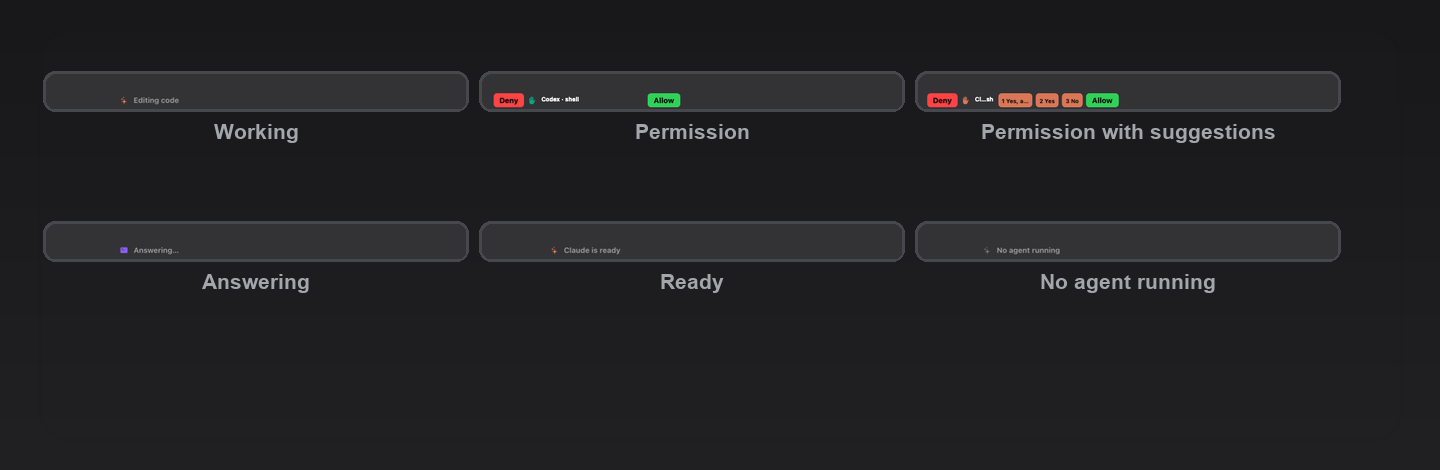
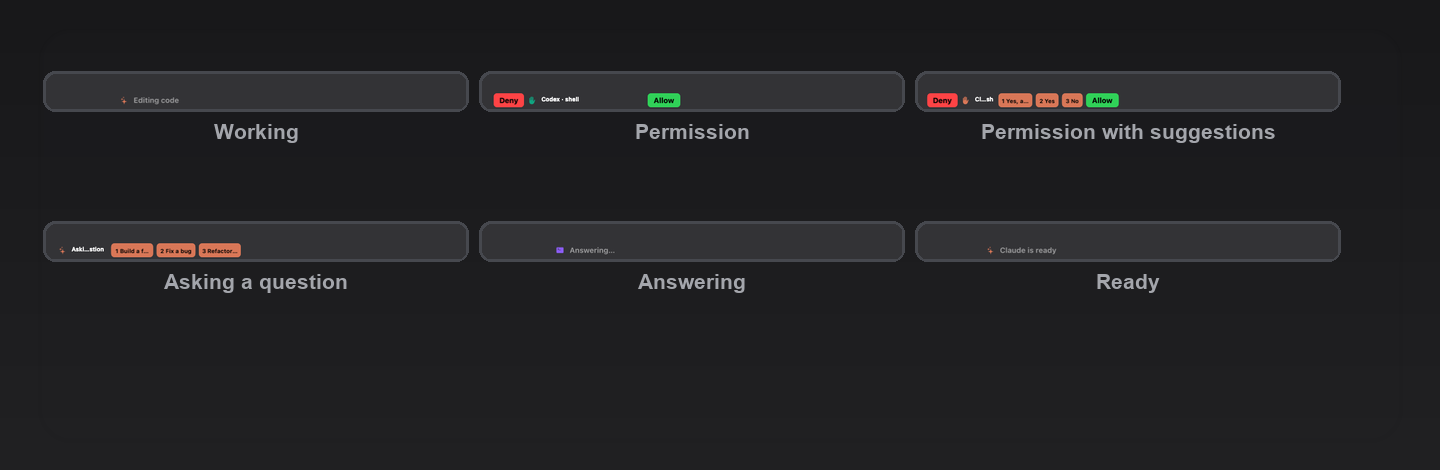
Show AskUserQuestion options as numbered buttons on the Touch Bar
- Hook: extract answer options from AskUserQuestion tool input and send
  them with the needs_input event as "Asking a question"
- Bridge: add options field to AgentSnapshot, pass through record/apply,
  include in state response
- Widget: show a question panel with brand-colored numbered buttons (1/2/3)
  when the agent is in needsInput with options. No Deny/Allow — the user
  answers in the terminal, the buttons are a visual aid
- Render test: add question panel state with self-check
- Regenerate screenshots and hero (replaced No-agent with Asking a question)

diff --git a/widget/Sources/StatusView.swift b/widget/Sources/StatusView.swift
@@ -37,6 +37,8 @@ final class StatusView: NSView {
     private let panelTitle = NSTextField(labelWithString: "")
     private let allowButton = NSButton(title: "Allow", target: nil, action: nil)
     private var suggestionButtons: [NSButton] = []
+    private var questionButtons: [NSButton] = []
+    private var isQuestionPanel = false
 
     // MARK: State
 
@@ -106,7 +108,11 @@ final class StatusView: NSView {
         super.layout()
         panelContainer.frame = bounds
         guard panelContainer.isHidden else {
-            layoutPermissionPanel()
+            if isQuestionPanel {
+                layoutQuestionPanel()
+            } else {
+                layoutPermissionPanel()
+            }
             return
         }
         if presentationWidth <= 1 {
@@ -172,6 +178,35 @@ final class StatusView: NSView {
         allowButton.frame = NSRect(x: x, y: midY, width: allowW, height: 22)
     }
 
+    /// Manual question-panel layout: icon + label + numbered option buttons.
+    /// No Deny/Allow — the user answers in the terminal; the buttons are a
+    /// visual aid so they can see the options on the Touch Bar.
+    private func layoutQuestionPanel() {
+        let gap: CGFloat = 6
+        let iconW: CGFloat = 16
+        let midY = (bounds.height - 22) / 2
+
+        let buttonWidths = questionButtons.map { button -> CGFloat in
+            let attrs: [NSAttributedString.Key: Any] = [.font: NSFont.systemFont(ofSize: 10, weight: .semibold)]
+            let textWidth = (button.title as NSString).size(withAttributes: attrs).width
+            return min(max(textWidth + 12, 26), 72)
+        }
+        let buttonTotal = buttonWidths.reduce(0, +)
+        let itemCount = CGFloat(2 + questionButtons.count)
+        let fixed = iconW + buttonTotal + gap * itemCount
+        let titleWidth = max(min(bounds.width - fixed - 40, 200), 40)
+
+        var x = max((bounds.width - fixed - titleWidth) / 2, 6)
+        panelIcon.frame = NSRect(x: x, y: (bounds.height - 16) / 2, width: iconW, height: 16)
+        x += iconW + gap
+        panelTitle.frame = NSRect(x: x, y: (bounds.height - 16) / 2, width: titleWidth, height: 16)
+        x += titleWidth + gap
+        for (button, width) in zip(questionButtons, buttonWidths) {
+            button.frame = NSRect(x: x, y: midY, width: width, height: 22)
+            x += width + gap
+        }
+    }
+
     private func style(_ button: NSButton, color: NSColor, font: NSFont) {
         button.bezelStyle = .rounded
         button.bezelColor = color
@@ -224,18 +259,37 @@ final class StatusView: NSView {
         let samePermission = permission?.id == currentPermission?.id
         currentPermission = permission
         if let permission = permission {
+            isQuestionPanel = false
             updateIdlePresentation(forceVisible: true)
             if !samePermission { showPermissionPanel(permission) }
             panelContainer.isHidden = false
             label.isHidden = true
             iconView.isHidden = true
+        } else if let questionOptions = currentQuestionOptions() {
+            isQuestionPanel = true
+            clearSuggestionButtons()
+            updateIdlePresentation(forceVisible: true)
+            showQuestionPanel(options: questionOptions)
+            panelContainer.isHidden = false
+            label.isHidden = true
+            iconView.isHidden = true
         } else {
+            isQuestionPanel = false
             panelContainer.isHidden = true
             clearSuggestionButtons()
+            clearQuestionButtons()
             updateIdlePresentation(forceVisible: false)
         }
         refresh()
         needsLayout = true
+    }
+
+    private func currentQuestionOptions() -> [String]? {
+        guard activeAgents.indices.contains(selectedIndex) else { return nil }
+        let agent = activeAgents[selectedIndex]
+        guard agent.status == "needsInput" else { return nil }
+        if let opts = agent.options, !opts.isEmpty { return opts }
+        return nil
     }
 
     private func updateIdlePresentation(forceVisible: Bool) {
@@ -351,6 +405,9 @@ final class StatusView: NSView {
 
     private func showPermissionPanel(_ item: BridgeClient.PermissionItem) {
         clearSuggestionButtons()
+        clearQuestionButtons()
+        denyButton.isHidden = false
+        allowButton.isHidden = false
 
         let badge = pendingCount > 1 ? "  +\(pendingCount - 1)" : ""
         panelTitle.stringValue = "\(item.agent.capitalized) · \(item.tool)\(badge)"
@@ -393,6 +450,41 @@ final class StatusView: NSView {
             button.removeFromSuperview()
         }
         suggestionButtons.removeAll()
+    }
+
+    // MARK: Question panel
+
+    private func showQuestionPanel(options: [String]) {
+        clearQuestionButtons()
+        denyButton.isHidden = true
+        allowButton.isHidden = true
+
+        let agent = activeAgents[selectedIndex]
+        let brand = NSColor(hex: agent.color) ?? .white
+        panelIcon.contentTintColor = brand
+        panelIcon.image = logo(for: agent.agent)
+            ?? NSImage(systemSymbolName: agent.symbol, accessibilityDescription: nil)
+        panelTitle.stringValue = agent.label
+
+        let maxLabel = options.count >= 3 ? 12 : (options.count == 2 ? 16 : 22)
+        for (index, option) in options.enumerated() {
+            let title = "\(index + 1) \(Self.truncate(option, to: maxLabel))"
+            let button = NSButton(title: title, target: nil, action: nil)
+            style(button, color: brand, font: NSFont.systemFont(ofSize: 10, weight: .semibold))
+            button.toolTip = option
+            button.tag = index
+            questionButtons.append(button)
+            panelContainer.addSubview(button)
+        }
+    }
+
+    private func clearQuestionButtons() {
+        for button in questionButtons {
+            button.removeFromSuperview()
+        }
+        questionButtons.removeAll()
+        denyButton.isHidden = false
+        allowButton.isHidden = false
     }
 
     private func logo(for agent: String) -> NSImage? {

diff --git a/bridge/Sources/AgentBridge/Hub.swift b/bridge/Sources/AgentBridge/Hub.swift
@@ -54,6 +54,7 @@ struct AgentSnapshot: Codable {
     var label: String
     var tool: String?
     var detail: String?
+    var options: [String]?
     var lastActive: TimeInterval
     var transientUntil: TimeInterval?
 }
@@ -128,6 +129,7 @@ final class AgentHub: @unchecked Sendable {
                 label: "No agent running",
                 tool: nil,
                 detail: nil,
+                options: nil,
                 lastActive: 0,
                 transientUntil: nil
             )
@@ -182,7 +184,7 @@ final class AgentHub: @unchecked Sendable {
 
     // MARK: Events
 
-    func record(event: String, agent: AgentID, tool: String?, detail: String?, ts: Double?) {
+    func record(event: String, agent: AgentID, tool: String?, detail: String?, options: [String]?, ts: Double?) {
         lock.lock()
 
         guard isEnabled(agent) else {
@@ -229,7 +231,7 @@ final class AgentHub: @unchecked Sendable {
         if !isQuietTransition(event) {
             heldEvent[agent] = nil
         }
-        apply(event: event, agent: agent, tool: tool, detail: detail, eventTime: eventTime)
+        apply(event: event, agent: agent, tool: tool, detail: detail, options: options, eventTime: eventTime)
         lock.unlock()
     }
 
@@ -241,7 +243,7 @@ final class AgentHub: @unchecked Sendable {
         // then the held one is stale.
         if let last = lastEventAt[agent], held.ts < last - staleTolerance { return }
         heldEvent[agent] = nil
-        apply(event: held.event, agent: agent, tool: held.tool, detail: held.detail, eventTime: held.ts)
+        apply(event: held.event, agent: agent, tool: held.tool, detail: held.detail, options: nil, eventTime: held.ts)
     }
 
     private func isQuietTransition(_ event: String) -> Bool {
@@ -249,13 +251,14 @@ final class AgentHub: @unchecked Sendable {
             .contains(event)
     }
 
-    private func apply(event: String, agent: AgentID, tool: String?, detail: String?, eventTime: Double) {
+    private func apply(event: String, agent: AgentID, tool: String?, detail: String?, options: [String]?, eventTime: Double) {
         var status = statuses[agent] ?? AgentSnapshot(
             agent: agent, name: agent.displayName, symbol: agent.symbol, color: agent.color,
-            status: .idle, label: "No agent running", tool: nil, detail: nil, lastActive: 0, transientUntil: nil
+            status: .idle, label: "No agent running", tool: nil, detail: nil, options: nil, lastActive: 0, transientUntil: nil
         )
         let now = Date().timeIntervalSince1970
         status.lastActive = now
+        status.options = nil
 
         switch event {
         case "session_start":
@@ -296,9 +299,10 @@ final class AgentHub: @unchecked Sendable {
 
         case "needs_input":
             status.status = .needsInput
-            status.label = "Needs your answer"
+            status.label = detail ?? "Needs your answer"
             status.tool = nil
-            status.detail = detail
+            status.detail = nil
+            status.options = options
             status.transientUntil = nil
 
         case "ready", "idle":
@@ -364,7 +368,7 @@ final class AgentHub: @unchecked Sendable {
         pendingOrder.append(id)
         var status = statuses[agent] ?? AgentSnapshot(
             agent: agent, name: agent.displayName, symbol: agent.symbol, color: agent.color,
-            status: .idle, label: "No agent running", tool: nil, detail: nil, lastActive: 0, transientUntil: nil
+            status: .idle, label: "No agent running", tool: nil, detail: nil, options: nil, lastActive: 0, transientUntil: nil
         )
         status.status = .waitingPermission
         status.label = "Waiting for you"

diff --git a/widget/tests/render.swift b/widget/tests/render.swift
@@ -58,7 +58,11 @@ func snapshot(_ view: NSView, width: CGFloat, file: String) {
 }
 
 func agent(_ a: String, _ n: String, _ s: String, _ c: String, _ st: String, _ l: String, _ la: Double) -> BridgeClient.AgentInfo {
-    BridgeClient.AgentInfo(agent: a, name: n, symbol: s, color: c, status: st, label: l, tool: nil, detail: nil, lastActive: la)
+    BridgeClient.AgentInfo(agent: a, name: n, symbol: s, color: c, status: st, label: l, tool: nil, detail: nil, options: nil, lastActive: la)
+}
+
+func agentWithOptions(_ a: String, _ n: String, _ s: String, _ c: String, _ st: String, _ l: String, _ la: Double, _ opts: [String]) -> BridgeClient.AgentInfo {
+    BridgeClient.AgentInfo(agent: a, name: n, symbol: s, color: c, status: st, label: l, tool: nil, detail: nil, options: opts, lastActive: la)
 }
 
 func permission(_ id: String, _ a: String, _ tool: String, _ detail: String, _ suggestions: [String]) -> BridgeClient.PermissionItem {
@@ -134,6 +138,14 @@ struct RenderTest {
         RunLoop.current.run(until: Date().addingTimeInterval(0.1))
         snapshot(statusView, width: StatusView.preferredWidth, file: "render-panel-allow.png")
 
+        // Question panel: AskUserQuestion with numbered answer options.
+        statusView.apply(agents: [
+            agentWithOptions("claude", "Claude", "sparkles", "D97757", "needsInput", "Asking a question", 100,
+                ["Build a feature", "Fix a bug", "Refactor code"]),
+        ], pendingCount: 0, permission: nil)
+        RunLoop.current.run(until: Date().addingTimeInterval(0.1))
+        snapshot(statusView, width: StatusView.preferredWidth, file: "render-question.png")
+
         // Self-checks.
         let sweep = stats("render-working-sweep.png")
         let working = stats("render-working.png")
@@ -143,7 +155,9 @@ struct RenderTest {
         precondition(sweepBrightness - workingBrightness > 60,
                      "shimmer band does not brighten active text enough")
         precondition(noagent.faint > 150, "no-agent text missing")
-        print("checks: sweep.band=\(sweepBrightness) working.base=\(workingBrightness) noagent.faint=\(noagent.faint) — PASSED")
+        let question = stats("render-question.png")
+        precondition(question.full + question.mid > 100, "question panel numbered buttons missing")
+        print("checks: sweep.band=\(sweepBrightness) working.base=\(workingBrightness) noagent.faint=\(noagent.faint) question=\(question.full + question.mid) — PASSED")
 
         print("RENDER TEST DONE")
     }

diff --git a/bridge/Sources/AgentBridge/HTTPServer.swift b/bridge/Sources/AgentBridge/HTTPServer.swift
@@ -150,8 +150,9 @@ final class HTTPServer: @unchecked Sendable {
             let event = body["event"] as? String ?? ""
             let tool = body["tool"] as? String
             let detail = body["detail"] as? String
+            let options = body["options"] as? [String]
             let ts = body["ts"] as? Double
-            hub.record(event: event, agent: agent, tool: tool, detail: detail, ts: ts)
+            hub.record(event: event, agent: agent, tool: tool, detail: detail, options: options, ts: ts)
             writeResponse(fd, status: 200, json: ["ok": true])
 
         case ("POST", "/v1/permission"):

diff --git a/widget/Sources/BridgeClient.swift b/widget/Sources/BridgeClient.swift
@@ -12,6 +12,7 @@ final class BridgeClient {
         let label: String
         let tool: String?
         let detail: String?
+        let options: [String]?
         let lastActive: Double
     }
 

diff --git a/hooks/agentbridge-hook.py b/hooks/agentbridge-hook.py
@@ -94,17 +94,31 @@ def main():
             return
 
         # Questions asked via AskUserQuestion are harmless (they open the
-        # question UI in the terminal) — auto-approve and show a hint on
-        # the bar instead of a full permission prompt.
+        # question UI in the terminal) — auto-approve and show the answer
+        # options as numbered buttons on the Touch Bar.
         if tool_name == "AskUserQuestion":
-            question = ""
+            options = []
             try:
                 qs = tool_input.get("questions", [])
                 if qs:
-                    question = str(qs[0].get("question", ""))[:120]
+                    for opt in qs[0].get("options", [])[:4]:
+                        if isinstance(opt, dict):
+                            label = str(opt.get("label", opt.get("text", "")))
+                        elif isinstance(opt, str):
+                            label = opt
+                        else:
+                            continue
+                        label = label.strip()
+                        if label:
+                            options.append(label[:40])
             except Exception:
                 pass
-            fire_and_forget({"agent": agent, "event": "needs_input", "detail": question})
+            fire_and_forget({
+                "agent": agent,
+                "event": "needs_input",
+                "detail": "Asking a question",
+                "options": options,
+            })
             if agent == "codex":
                 print(json.dumps({
                     "hook_specific_output": {
